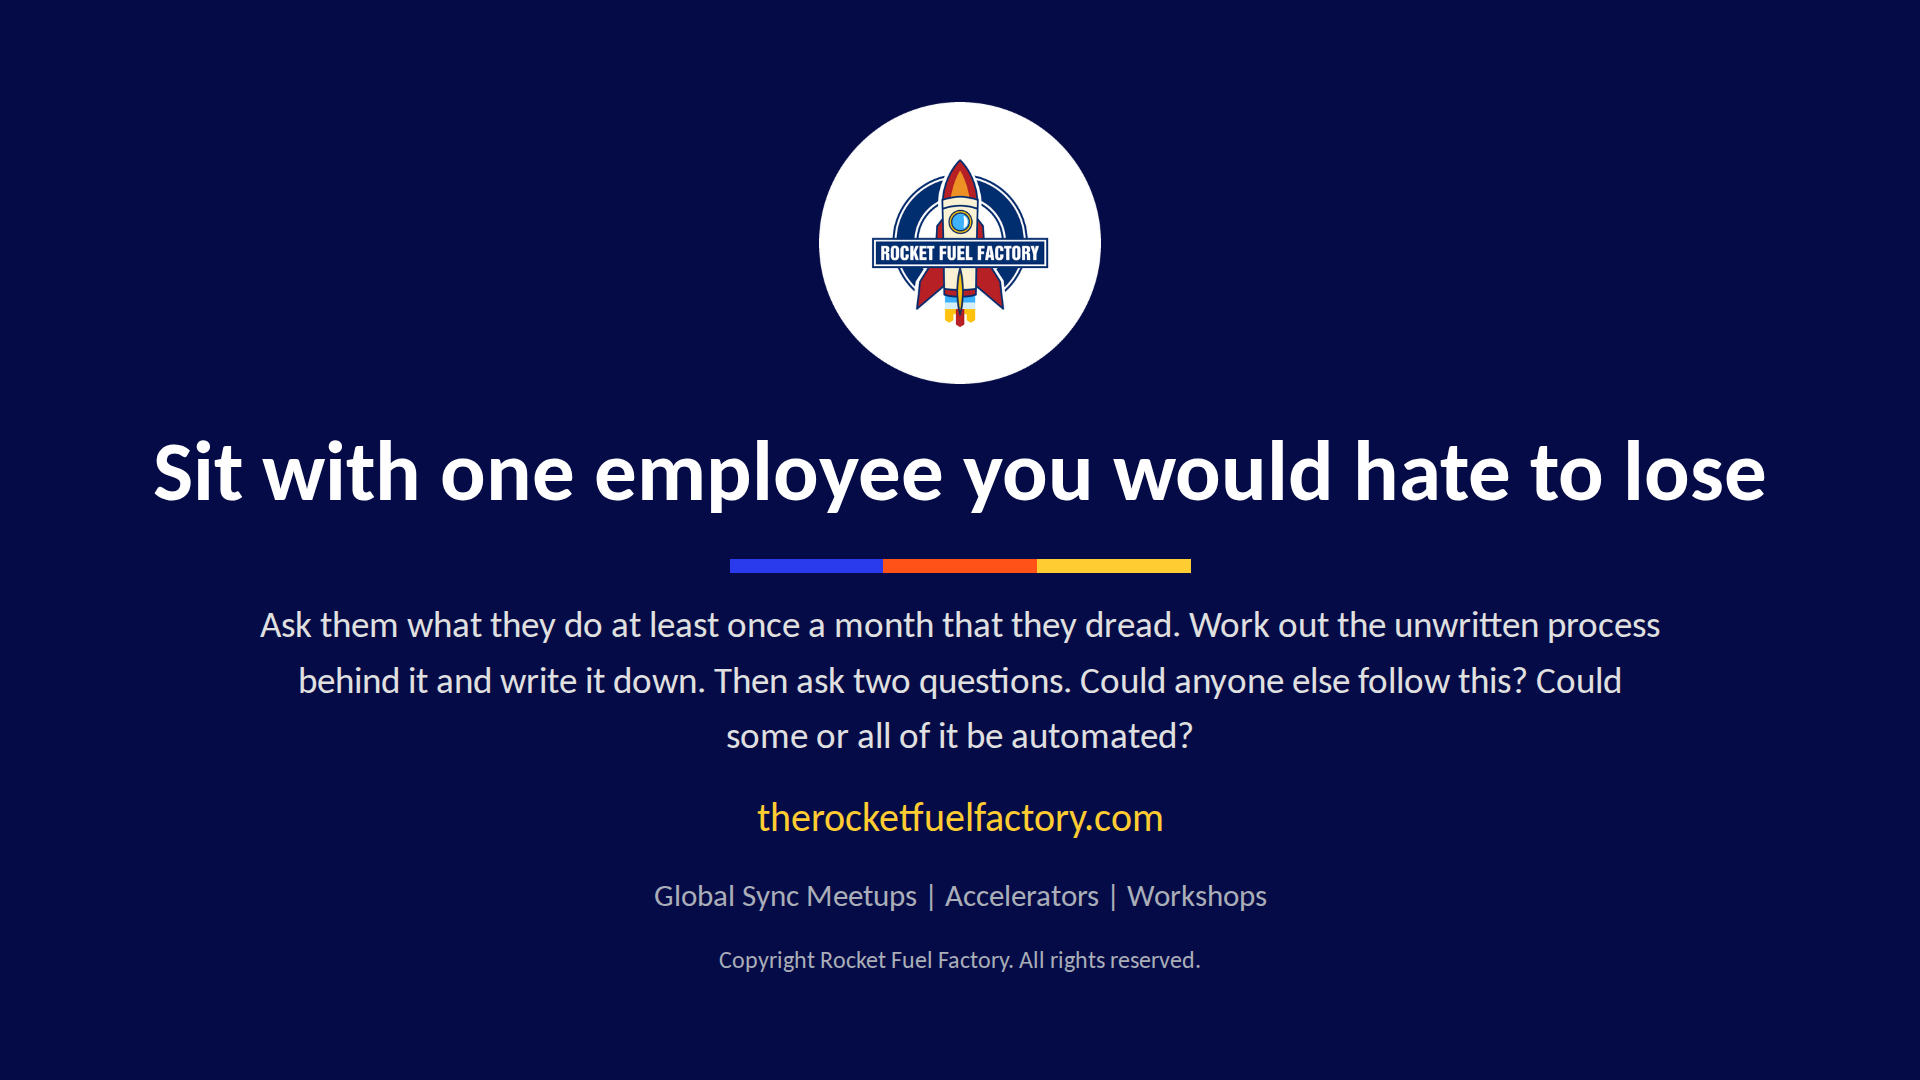
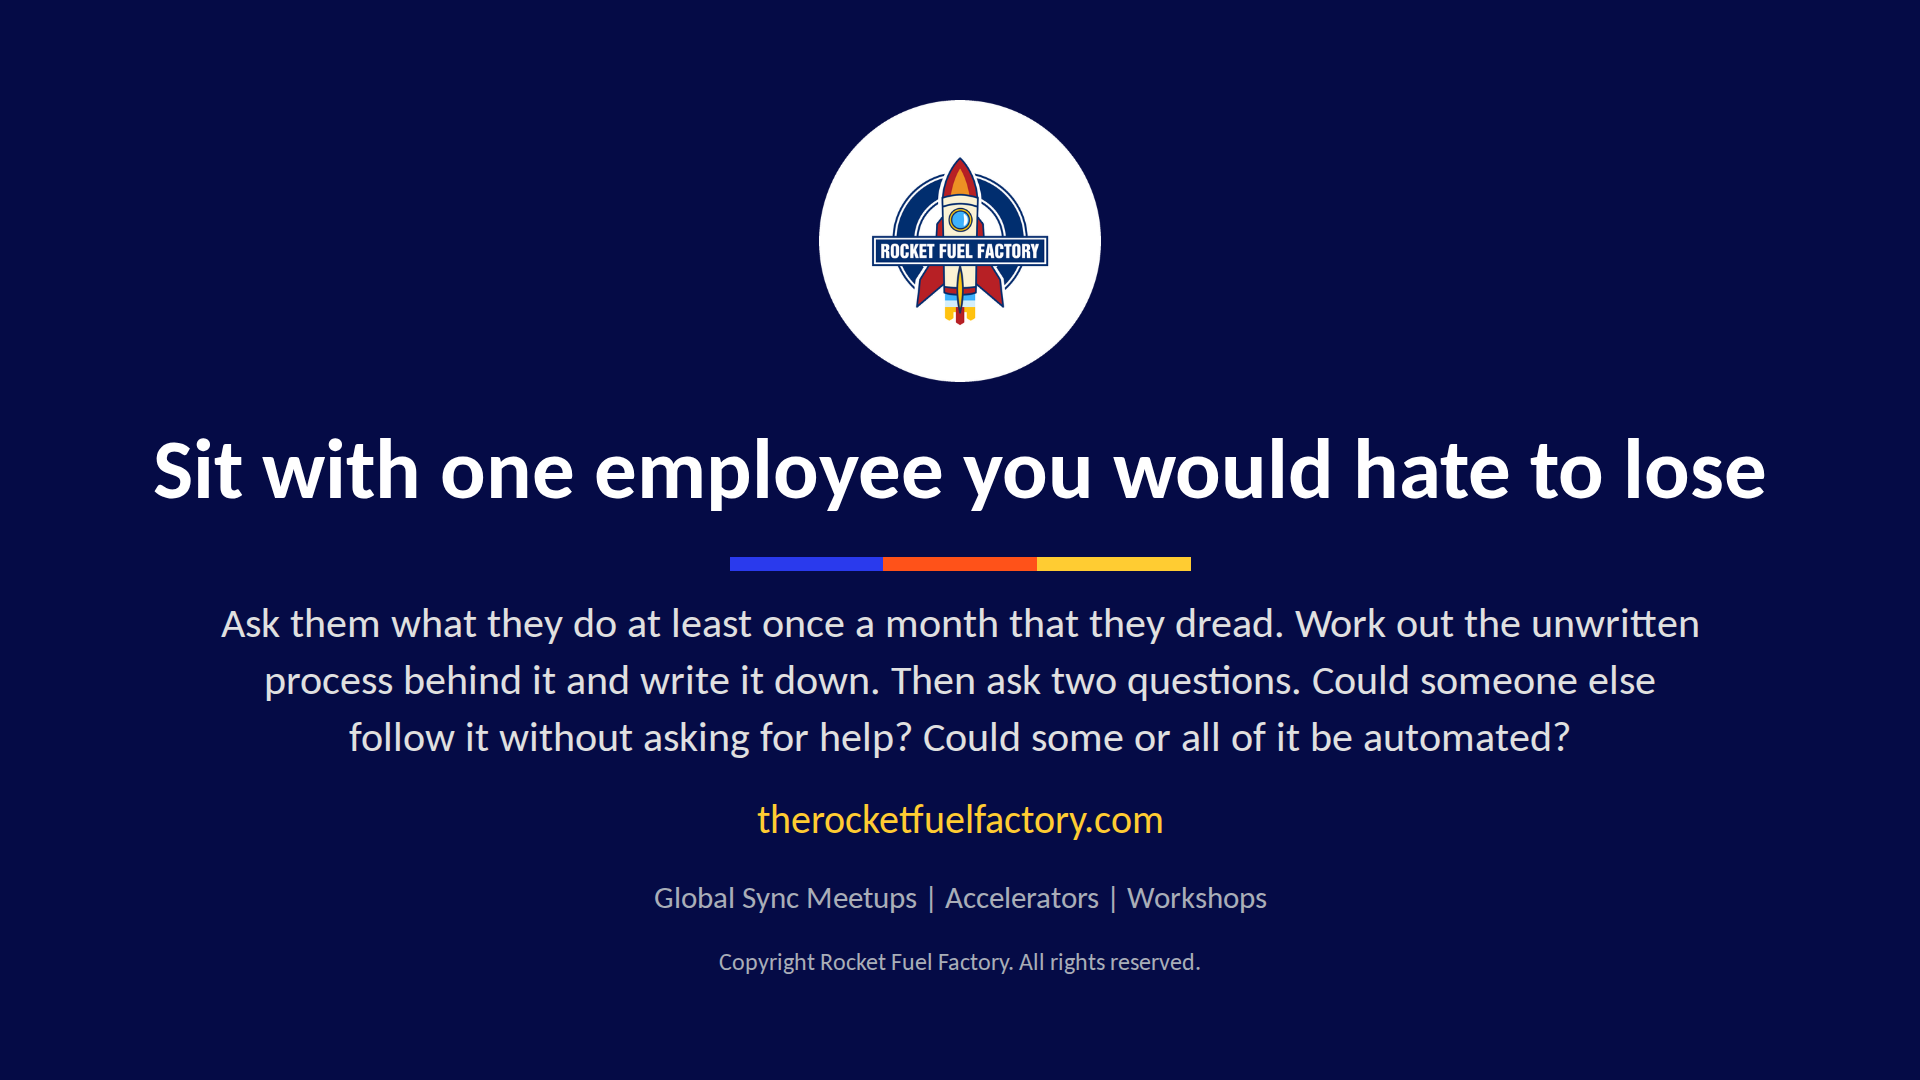
Slide 19: action at 42px, first question echoes the slide 12 test, note names the three audiences

diff --git a/src/data/notes.js b/src/data/notes.js
@@ -22,6 +22,6 @@ export const notes = {
   'guardrail-sandwich': 'Target 17:40. So yes, you can use AI inside your operations. This is how I do it, and I call it the guardrail sandwich. The whole thing is one automation. The bread is the deterministic steps. The filling is the probabilistic step. And the way to think about it is communication, the same as with a person you are handing work to. Top slice is everything you tell it before it starts. Gather the facts from the systems that actually hold them, so it is not guessing at what the ticket said or what the client has. Validate that the request is complete and that we are allowed to act on it at all, and if either of those fails it stops right there and a person hears about it. Then attach the rules you wrote for this job. That is the step I see skipped most often. It is the brief from the demo, and it is the difference between a guess and a draft you would sign. The filling is the one thing it does. It makes the first pass. It drafts, it sorts, it summarizes, with the facts and the rules already in front of it. Bottom slice is checking whether it understood you. Check the result against those same rules, and if a rule cannot check it, a person does. Then log what happened and tell the person who owns it. The AI never touches the customer or the record on its own. It made a first pass in the middle of a conversation you wrote down on both sides. None of this works if the rules are still in somebody\'s head, which is why everything before this slide was about getting them out. If you saw me at Right of Boom, this is the same sandwich with the security taken out and the day to day put in. Here is what it costs.',
   'honest-limit': 'Target 20:10. So the machine made its pass. Now I have to find out whether it understood me, and that is the same thing I do with a person. I read the draft against what I asked for. If I wrote the rules down, that check is fast, because I am comparing the answer to a sentence I already have. If I did not, the check is me re-deciding the whole job, and then I have bought a subscription and kept the work. That is the part nobody puts in the demo, and it is the honest limit on all of this. The way I keep the check fast is to decide it first, and to ask for the answer in a shape something can test. A category. A yes or no. A number under 150. Then I log the run. What went in, what came out, who signed off. Look at the third row. The draft came back at 212 words, the rule said 150, so it never went anywhere. It sat there for Chris. Nobody had to read it to catch it. That log is not paperwork. It is the record of the conversation, and it is the only version of it anyone else can read. When a client asks me what the AI did with their data, I do not tell them it is fine. I read them the run. If you want the harder version of that question, the legal session at 3:15 has it. And once you can show a client that, you can stop talking about your own shop.',
   'the-more': 'Target 21:40. SLOW. This is the more in the title. Everything so far was your own operations. Now look at your clients. They have a Mike too. Somebody in accounting retypes every invoice from the shipping system into the accounting system. Somebody waits three days for one manager to approve a thing from an inbox. Somebody builds the month-end report by hand from three spreadsheets, and is the only one who knows which numbers go where. Nobody in that building has written those steps down, and nobody they know can do the thing you just watched for twenty minutes: sit with the person, get the rule out of their head, and put a machine behind it. You can. And here is what you get for it. The hours you got back from your own automation, spent in front of them instead of behind a screen. A story about your own operations that they watched happen, which is a better case study than anything in a brochure. And a new revenue stream, one that makes you harder to replace, because you are now fixing the part of their business nobody else in their building can see. That is the more. Not fewer people. More of the work only you can do for them.',
-  'one-action': 'Target 23:40. End on the action, not a thank you. Read it as instructions, slowly. The employee you would hate to lose is the person the process lives in; that is why you would hate to lose them. The thing they dread once a month is the automaton work. Writing it down is Aharon: the process does not exist until it is said out loud. The two questions are the whole talk: could anyone else follow it is delegation, could it be automated is the more. Then hand off: Erik and Atul are about to talk about the version of this where the person the process lives in is you.',
+  'one-action': 'Target 23:40. SLOW. One thing to do this month. Sit with one employee you would hate to lose. You already know who, you named them in your head at the start when I asked whose vacation request you dread. Ask them what they do at least once a month that they dread. Then work out the process behind it, the one that has never been written down, and write it down with them. Test it the way we tested Mike\'s list. Could someone else follow it without asking for help? If not, you are not done writing. Then the second question. Could some or all of it be automated? Even if the answer is no, you have a process that exists now, and that person can take a vacation. That is the whole talk in an afternoon. Three conversations, and they are the same conversation. You have to get the rules out of your best people\'s heads and say them out loud. You have to give your customers the time that buys you, in person. And now you have to hand those same rules to a machine that cannot fill in the blanks. Better communication with your people, your customers, and your AI. Erik and Atul are up next with the version of this where the person the process lives in is you.',
   presenter: 'Target 24:40. One breath. Name, company, one sentence. About five minutes of buffer before the hard stop; spend it on the SLOW slides.',
 }

diff --git a/src/components/slides/020-OneAction.jsx b/src/components/slides/020-OneAction.jsx
@@ -4,7 +4,7 @@ export default function OneAction() {
   return (
     <ClosingSlide
       title="Sit with one employee you would hate to lose"
-      action="Ask them what they do at least once a month that they dread. Work out the unwritten process behind it and write it down. Then ask two questions. Could anyone else follow this? Could some or all of it be automated?"
+      action="Ask them what they do at least once a month that they dread. Work out the unwritten process behind it and write it down. Then ask two questions. Could someone else follow it without asking for help? Could some or all of it be automated?"
       ecosystemLine="Global Sync Meetups | Accelerators | Workshops"
       copyrightLine="Copyright Rocket Fuel Factory. All rights reserved."
     />

diff --git a/src/components/layouts/ClosingSlide.jsx b/src/components/layouts/ClosingSlide.jsx
@@ -13,7 +13,7 @@ export default function ClosingSlide({
       <RffLogo variant="badge" className="h-[282px] w-[282px]" />
       <h1 className="text-[85px] font-bold">{title}</h1>
       <TriColorBar />
-      {action && <p className="max-w-[1400px] text-[37px] text-rff-light-text">{action}</p>}
+      {action && <p className="max-w-[1480px] text-[42px] leading-[1.35] text-rff-light-text">{action}</p>}
       <p className="text-[40px] text-rff-gold">{FOOTER.site}</p>
       {ecosystemLine && <p className="text-[31px] text-rff-muted-dark">{ecosystemLine}</p>}
       {copyrightLine && <p className="text-[24px] text-rff-muted-dark">{copyrightLine}</p>}

diff --git a/docs/OUTLINE.md b/docs/OUTLINE.md
@@ -55,7 +55,7 @@ Closing line: If you can't write the rule, you can't hire your way out of it eit
 16. The Guardrail Sandwich (gold). Drawn as a sandwich: grey bread above and below (Deterministic, cog), pale gold filling with a gold edge (Probabilistic, sparkles). Tim: the whole thing is one automation with a mix of the two, so the bands are not labelled automation and AI. Six generic steps, nothing names the email: gather the facts from the systems that hold them; validate complete and allowed; attach the rules you wrote for this job; (AI) make the first pass, draft, sort, or summarize; check against those same rules or hand to a person; log and tell the owner. Title is the permission: you can put AI in the middle of a process you wrote. Footer is the condition as communication: tell it everything in writing before it starts, then check whether it understood. The unguarded line is spoken. Note walks the slices, names step 3 as the one people skip and the brief from the demo, one-line Right of Boom callback, hands to 17 with "here is what it costs". Inspired by the Right of Boom 2026 stack, not copied.
 17. The check (gold). Pays off 16's condition: the check is how you know it understood you. Lead: you check the answer against the same rules you wrote for the step. Three bullets: decide what good looks like before you build the step; ask for a shape a rule can test (category, yes or no, number); log what went in, what came out, who approved it. Right side is the log drawn as an artifact, three runs from the demo morning: the outage email passed and Alex sent it, a printer ticket categorized automatically, a billing draft over 150 words held for Chris. Closing line: when a client asks what the AI did with their data, you read them the run. Cost honesty (subscription plus headcount) and the 3:15 legal pointer are spoken, not on the slide. Opus rethink 14 Sep: a caveat beat between permission (16) and payoff (18) was the wrong shape.
 18. The more (two-column, blue). SLOW. Title: your customers have the same problem you do. Lead: they have a person the process lives in, and a month of work only that person can do. Bullets: invoices retyped from one system into another; approvals waiting on one manager's inbox; a month-end report built by hand from three spreadsheets. Card, what you get for it: hours in front of them instead of behind a screen; a story about your own operations they watched you live; a new revenue stream that makes you harder to replace. The word automaton is gone from the deck (it was only in the cut opener); the title now says the problem plainly. Note: they have a Mike too; that is the more, not fewer people, more of the work only you can do for them.
-19. One action (closing). Tim's words: sit with one employee you would hate to lose. Ask what they do at least once a month that they dread. Work out the unwritten process behind it and write it down. Then two questions: could anyone else follow this, could some or all of it be automated. Say "this month" aloud. Hand to Erik and Atul: the version where the person the process lives in is you. No Table 3 reference; speakers were never asked to brief the tables.
+19. One action (closing). Tim's words: sit with one employee you would hate to lose. Ask what they do at least once a month that they dread. Work out the unwritten process behind it and write it down. Then two questions: could someone else follow it without asking for help (the slide 12 test, word for word), could some or all of it be automated. Action text at 42px, the one sentence they photograph. Note names the three audiences once: people, customers, AI. Say "this month" aloud. Hand to Erik and Atul: the version where the person the process lives in is you. No Table 3 reference; speakers were never asked to brief the tables.
 20. Presenter.
 
 ## Lines to drop verbatim, once each
